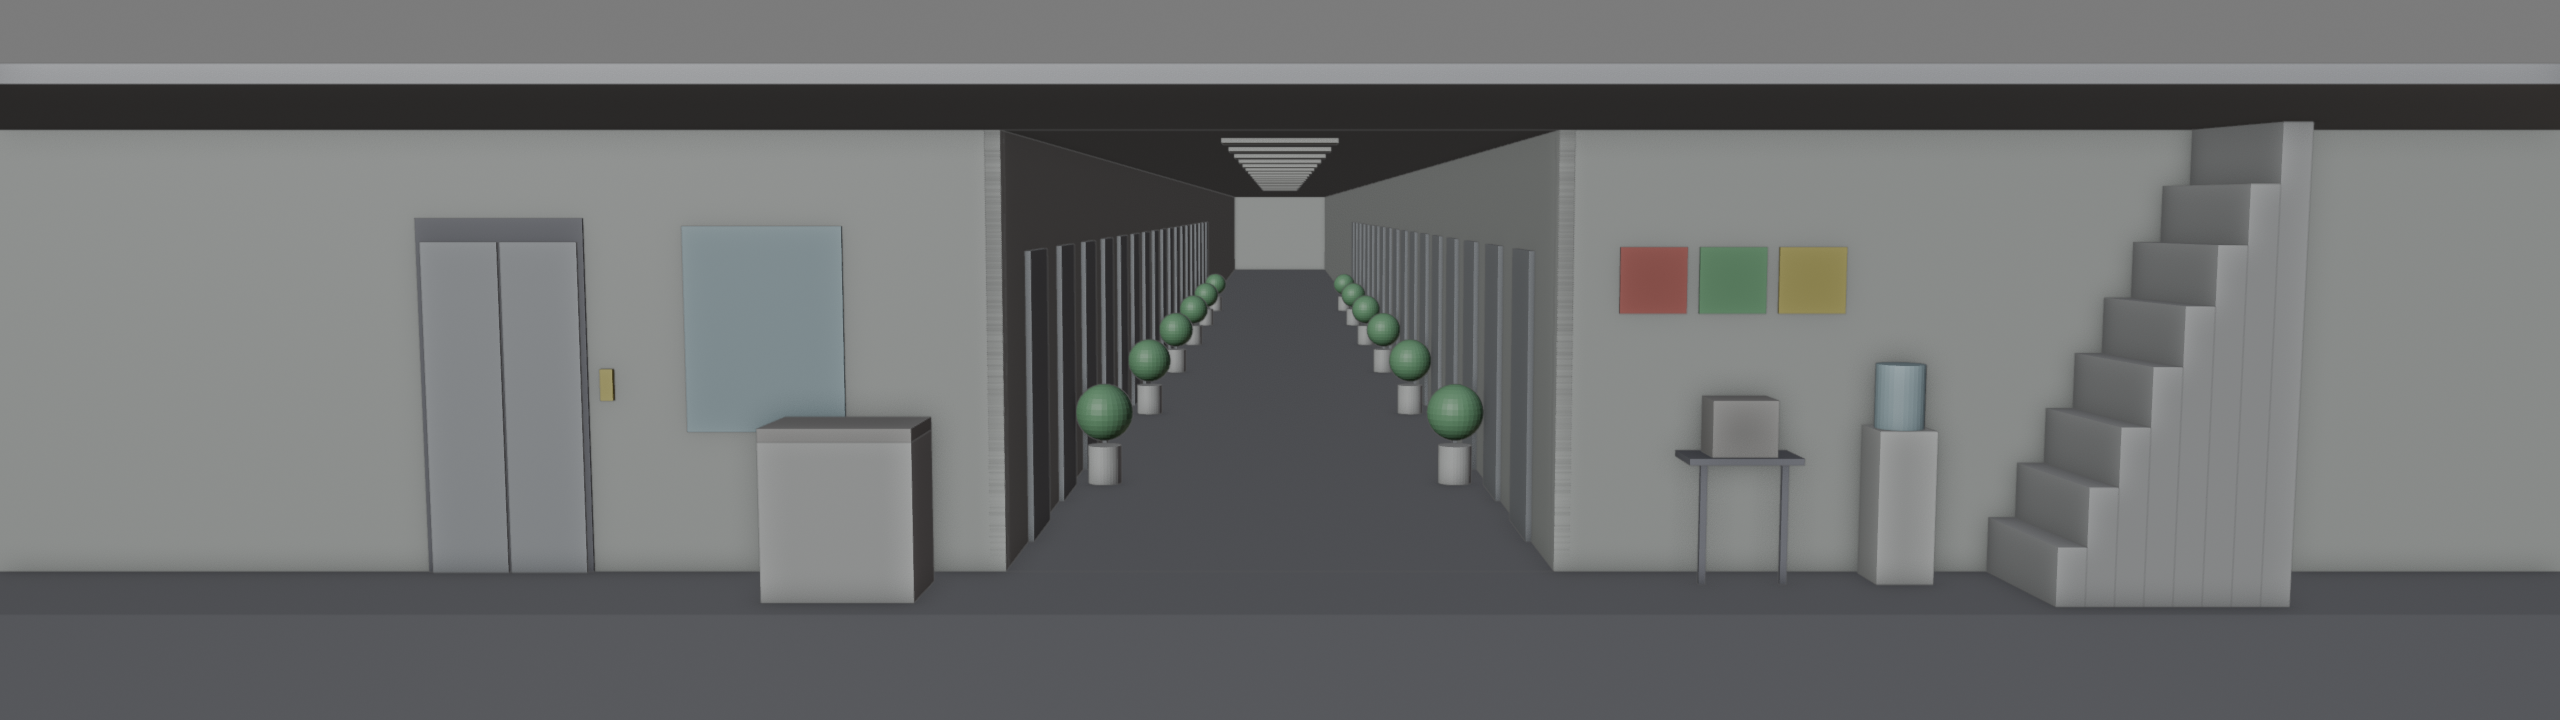
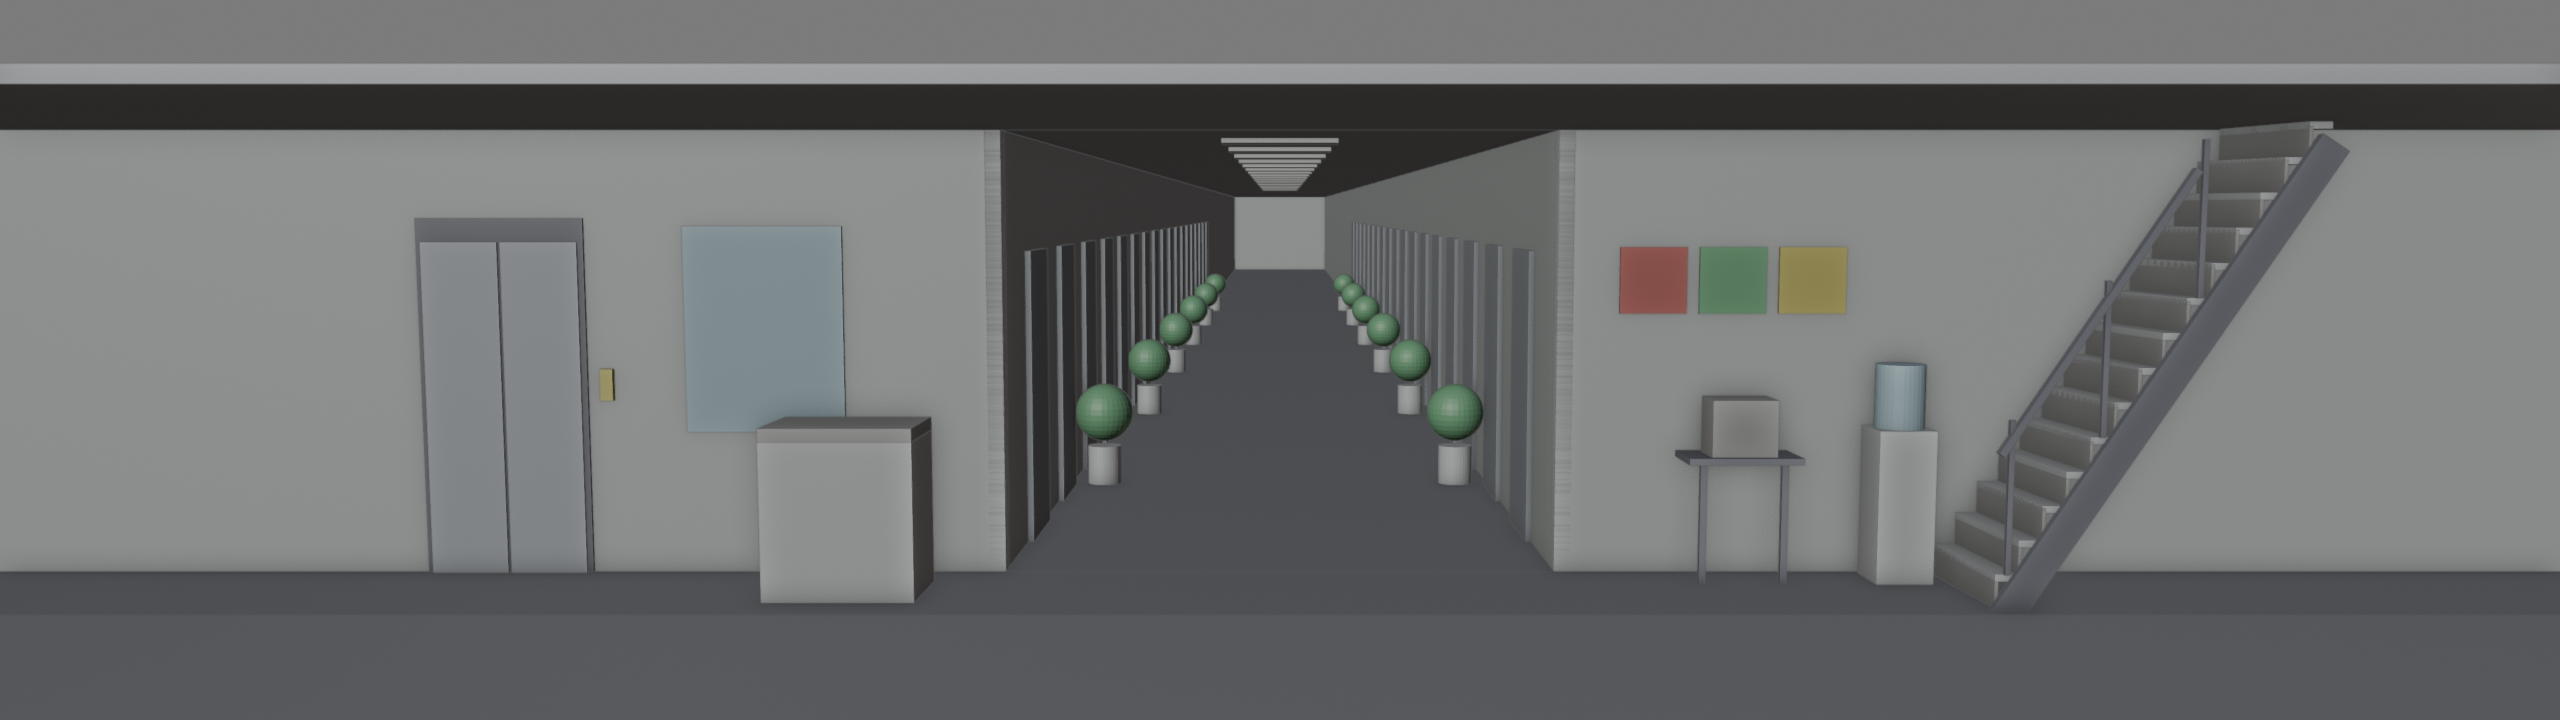
Welt 3: Büro 50 – Treppe als offene Treppe mit Handlauf, die gegen die Decke läuft (Rohbau und Prompt)

Changed region(s): [[0.75, 0.1528, 0.9375, 0.8556]]

diff --git a/tools/grafik_w3/rohbau_raeume.py b/tools/grafik_w3/rohbau_raeume.py
@@ -353,14 +353,36 @@ def buero():
     box(None, 8.85, Y0 - 0.4, 0.4, 0.3, 0.35, z=0.79, col=MITTEL)
     box("ONE water cooler (room for a cup on top)", 9.85, Y0 - 0.4, 0.35, 0.35, 0.95, col=HELL)
     zyl(None, 9.85, Y0 - 0.22, 0.15, 0.4, z=0.95, col=GLAS)
-    for i in range(8):
-        box("staircase along the wall, ending in the ceiling" if i == 7 else None,
-            10.6 + i * 0.17, Y0 - 1.0, 0.17, 1.0, 0.35 * (i + 1), col=(0.82, 0.82, 0.82, 1))
+    treppe(10.2, Y0 - 1.05, 2.8)
     notiz("walk area: front lobby", 6.0, 0.6, 0.05)
     figur("Agent Schmidt (at the far end)", 6.0, 14.0, 1.85)
     for x, y in ((5.2, 4.5), (6.8, 6.0), (5.6, 8.5), (6.5, 11.0), (4.8, 1.8), (7.4, 2.2)):
         figur("clone", x, y, 1.85)
     max_massstab()
+
+
+def treppe(x0, y, hoehe, stufen=14, auftritt=0.13, breite=0.95):
+    """Offene Treppe an der Rückwand: einzelne Stufen (Tritt und Setzstufe), Wange und Handlauf
+    vorn, nach rechts ansteigend; die oberste Stufe stößt gegen die Decke (Gag: endet in der Decke)."""
+    steig = hoehe / stufen
+    stufe = (0.85, 0.85, 0.85, 1)
+    for i in range(stufen):
+        box("staircase: open steps with railing, the top step hits the ceiling" if i == stufen - 1 else None,
+            x0 + i * auftritt, y, auftritt, breite, 0.04, z=(i + 1) * steig - 0.04, col=stufe)
+        box(None, x0 + i * auftritt - auftritt / 2 + 0.01, y, 0.02, breite, steig, z=i * steig, col=MITTEL)
+    lang = math.hypot(stufen * auftritt, hoehe)
+    winkel = math.atan2(hoehe, stufen * auftritt)
+    for dz, dicke, kuerzer in ((-0.12, 0.18, 0.0), (0.9, 0.04, 1.4)):
+        mx = x0 + stufen * auftritt / 2 - auftritt / 2 - kuerzer / 2 * math.cos(winkel)
+        mz = hoehe / 2 + dz - kuerzer / 2 * math.sin(winkel)
+        bpy.ops.mesh.primitive_cube_add(size=1, location=(X(mx), y - 0.02, mz))
+        o = bpy.context.object
+        o.scale = (lang - kuerzer, 0.05, dicke)
+        farbe = DUNKEL
+        o.rotation_euler[1] = -winkel
+        o.color = farbe
+    for i in range(0, stufen - 4, 4):
+        box(None, x0 + i * auftritt, y - 0.02, 0.03, 0.03, 0.9, z=(i + 1) * steig, col=DUNKEL)
 
 
 def testkammer_basis():

diff --git a/docs/grafik/welt-3.md b/docs/grafik/welt-3.md
@@ -77,7 +77,7 @@ Standardweg: Konzeptbild mit dem Baustein KONZEPT in Gemini, danach `tools/pixel
 | Laboreingang | Realität innen | Tür zu und offen | Panzertür, Kartenleser, Pinnwand, Wischeimer, Warnstreifen, Deckenlampe, Gang zur Straße | Underground concrete passage below the city, front view with gentle depth. Center: a heavy round steel blast door set into the back wall, closed. Right of the door: a wall-mounted card reader with a small red light. Left: a mop bucket full of clean water and a corkboard covered in pinned charts and blank result sheets; exit back up to the street at the left edge. Yellow-black warning stripes along the back of the floor, the front kept clear and wet. A single ceiling lamp, water dripping beside it. Second version, same framing: the blast door rolled aside, revealing a small room with a wall of glowing cyan data ports and one thick cable plugged in |
 | Stadtstraße | Simulation | Tag und Nacht (Strom der Kapsel aus). 1280×360 als ein Panorama in einem Bild (Seitenverhältnis 32:9) | Nachttisch mit Radiowecker (Anzeige 5:59; klingelnd 6:00), Gehweg für die Katze, Glastür des Büroturms, Haus der Orakel-Oma mit Spitzengardinen, gleiche Bäume und Häuser, freie Fahrbahn für die Autos im Takt (Effekt, keine gemalten Autos), Nachttisch als eigenes Vordergrundteil, Omas Haustür in Max-Größe, Sonne, Wolke dreimal | ONE single continuous panoramic image, extra wide 32:9 (1280x360), seen through one fixed camera from the front with gentle depth: a single uninterrupted city street that runs from the left edge to the right edge without any seam, split, border, divider or second panel. The horizon line, the sidewalk, the curb and the road stay at exactly the same height across the whole width. A suspiciously perfect city street on a sunny day. From left to right: at the far left, close to the viewer at the front edge of the sidewalk, a small wooden bedside table standing alone with a 1980s clock radio on it, red digits on its display; behind it a narrow, too-clean alley entrance. Behind the front sidewalk a clean empty asphalt road runs across the whole width, no cars on it and no cars parked anywhere. Across the road a second narrow sidewalk, then identical round trees and identical street lamps in a perfect evenly spaced row, then identical white houses with small front lawns; one house near the middle has lace curtains, a large front door and a small blank sign beside it, its door clearly big enough for an adult. At the far right, on the near side of the road, the ground floor of a tall glass office tower that is cut off by the top edge, with a closed glass entrance door and a small grey intercom plate beside it. One long clean sidewalk across the whole lower part of the image, no cracks, no gum, wide enough to walk on. Perfect blue sky with a small round sun and the same small cloud appearing exactly three times at even distances. Second version: the same street at night, dark blue sky, street lamps on, windows dark |
 | Küche der Orakel-Oma | Simulation innen | Sparschwein auf dem Regal; Sparschwein weg, Scherben am Boden | Ofen, Sparschwein auf dem Regal, Kochbuch, Radio, Gläser, Eieruhr, Kuckucksuhr, Gabel, Teller und Teekanne, Kehrblech mit Besen, Haustür | A homely retro kitchen seen from a few steps back, front view with gentle depth, furniture in normal adult size. Left: an old cream enamel oven with a window, a tray of round golden cookies inside, warm glow; a dustpan and broom leaning beside it, the broom turned toward the room. Center: a wooden kitchen table at the hip height of an adult, a chair beside it, on the table an empty plate, a teapot, a single straight silver fork and a thick open appliance manual showing a drawing of a stand mixer. Right: a high wall shelf with a blue ceramic piggy bank, a small radio and three jars with blank labels; below it a small side shelf with a wind-up kitchen timer shaped like a white hen, next to the front door at the right edge. Back wall: floral wallpaper, a window with lace curtains, a cuckoo clock. Warm light. Second version, same framing: the shelf without the piggy bank, blue shards on the floor below it |
-| Büroturm, 50. Stock | Simulation innen | 1280×360 als ein Panorama in einem Bild (Seitenverhältnis 32:9; Entscheidung 20.11.: breiter, damit Türreihe und Klon-Menge Platz haben) | Farbcode an der Wand, Terminal, Fenster, gleiche Türen, Bürokopierer, Wasserspender mit Platz für die Kaffeetasse (Sprite aus dem Gegenstands-Sammelbild, dort legt Schmidt auch die Sonnenbrille ab), Treppe in die Decke, Aufzugstür | Wide panoramic 1280x360 scene in one continuous image, front view with gentle depth, one central vanishing point. The 50th floor of an office tower: a wide plain office lobby across the front, and in the middle of its back wall a long straight corridor that runs away into the distance and never seems to end, its two side walls lined with identical grey office doors in perfect rhythm, identical small potted plants between some of them, a row of identical ceiling lights shrinking toward the far end. Left part of the lobby back wall: a metal elevator with two sliding doors and a small call button (the exit), then a window that shows only another identical corridor outside, a grey office photocopier with an output tray standing in front of the window. Right part of the lobby back wall: three separate square colour fields side by side at eye height, each with exactly one large black symbol inside it: a circle on the red field, a triangle on the green field, a square on the yellow field; below them a small side table with an old computer terminal with a green screen; next to it ONE single water cooler with a big bubble bottle; at the right edge a plain staircase running up along the wall and ending in the ceiling. Lobby floor clear and wide, the corridor floor clear for a crowd of identical clones. No columns, no second water cooler. Cold flat fluorescent light |
+| Büroturm, 50. Stock | Simulation innen | 1280×360 als ein Panorama in einem Bild (Seitenverhältnis 32:9; Entscheidung 20.11.: breiter, damit Türreihe und Klon-Menge Platz haben) | Farbcode an der Wand, Terminal, Fenster, gleiche Türen, Bürokopierer, Wasserspender mit Platz für die Kaffeetasse (Sprite aus dem Gegenstands-Sammelbild, dort legt Schmidt auch die Sonnenbrille ab), Treppe in die Decke, Aufzugstür | Wide panoramic 1280x360 scene in one continuous image, front view with gentle depth, one central vanishing point. The 50th floor of an office tower: a wide plain office lobby across the front, and in the middle of its back wall a long straight corridor that runs away into the distance and never seems to end, its two side walls lined with identical grey office doors in perfect rhythm, identical small potted plants between some of them, a row of identical ceiling lights shrinking toward the far end. Left part of the lobby back wall: a metal elevator with two sliding doors and a small call button (the exit), then a window that shows only another identical corridor outside, a grey office photocopier with an output tray standing in front of the window. Right part of the lobby back wall: three separate square colour fields side by side at eye height, each with exactly one large black symbol inside it: a circle on the red field, a triangle on the green field, a square on the yellow field; below them a small side table with an old computer terminal with a green screen; next to it ONE single water cooler with a big bubble bottle; at the right edge a narrow open staircase with single steps and a thin handrail, climbing diagonally along the wall, its top step running straight into the ceiling with no opening. Lobby floor clear and wide, the corridor floor clear for a crowd of identical clones. No columns, no second water cooler. Cold flat fluorescent light |
 | Testkammer 1 | Labor | Ausgangstür zu und offen (das Portalgerät hängt als eigenes Sprite aus dem Labor-Sammelbild in der Halterung) | Bodenschalter, Ausgangstür, Portalgerät-Halterung, Lautsprecher, Pappkuchen | A bright white test chamber built from identical square wall panels, front view with gentle depth. Left: the entrance and an empty white wall mount for a handheld device. Center: a large round red floor button set flush into the floor. Right: a closed sliding exit door. A small round speaker in the ceiling. Right corner: a cardboard cake with a painted candle. Second version, same framing: the exit door slid open |
 | Testkammer 2 | Labor | Laser tödlich (rot) und harmlos (blassrosa); das Gummihuhn steht als eigenes Sprite aus dem Labor-Sammelbild auf dem Sockel | Lasersperre, Gummihuhn-Sockel, Kritzelei mit Regel 3, Ausgangstür | The same white test chamber, same framing and panels. Right: the closed exit door, and directly in front of it two short emitter posts with three horizontal red laser beams between them, blocking the door. Left: a small empty white pedestal. Center, low on one wall panel near the floor: hasty black marker scribbles, unreadable, with one small neat block of print beside them. A large round loudspeaker on the wall. Second version: the laser beam pale pink and wobbly |
 | Testkammer 3 | Labor | Tür zu und offen | Verschlossene Tür mit Spalt für Bernd, Lautsprecher, Platz für das Huhn | The same white test chamber, same framing. Right: a large exit door with a big padlock symbol; directly in front of the door, touching it, a narrow slot in the floor exactly one small cube wide, so a cube standing in it blocks the door. Next to the door: a large round loudspeaker with a perforated grille, the size of a window. Left: entrance and an empty spot on the floor for the rubber chicken. Second version: the exit door wide open |

diff --git a/docs/grafik/fertige-prompts/welt-3.md b/docs/grafik/fertige-prompts/welt-3.md
@@ -346,7 +346,7 @@ NEGATIVE: no new objects, no changed camera or framing, no style change, no text
 
 ```text
 STYLE: Concept art for a 2D point-and-click adventure game in the style of classic 1990s adventure games, front view of the room with gentle one-point perspective, camera at the eye level of a standing person looking straight at the back wall, back wall parallel to the picture plane, vanishing point in the center at about 40 percent of the image height, side walls at most as narrow angled strips at the image edges, open walkable floor with gentle depth across the lower third to half of the image kept free of objects except at the left and right edges, wide shot from further back so the room feels spacious: a standing adult at the front edge would be about 52 percent of the image height, so doors and tall cupboards reach only about 50 percent of the image height, chairs about 25 percent and tables about 22 percent, no top-down, bird's-eye or strong three-quarter view, no fisheye, every object drawn exactly as described and nothing added, no faces or robot features on objects, small loose objects that can be picked up left out, book spines, calendars, posters and labels without any letters or numbers, light from the upper left with soft shadows to the lower right, humorous and whimsical, warm hand-painted look, 16:9, no text, no letters, no logos.
-SCENE: Wide panoramic 1280x360 scene in one continuous image, front view with gentle depth, one central vanishing point. The 50th floor of an office tower: a wide plain office lobby across the front, and in the middle of its back wall a long straight corridor that runs away into the distance and never seems to end, its two side walls lined with identical grey office doors in perfect rhythm, identical small potted plants between some of them, a row of identical ceiling lights shrinking toward the far end. Left part of the lobby back wall: a metal elevator with two sliding doors and a small call button (the exit), then a window that shows only another identical corridor outside, a grey office photocopier with an output tray standing in front of the window. Right part of the lobby back wall: three separate square colour fields side by side at eye height, each with exactly one large black symbol inside it: a circle on the red field, a triangle on the green field, a square on the yellow field; below them a small side table with an old computer terminal with a green screen; next to it ONE single water cooler with a big bubble bottle; at the right edge a plain staircase running up along the wall and ending in the ceiling. Lobby floor clear and wide, the corridor floor clear for a crowd of identical clones. No columns, no second water cooler. Cold flat fluorescent light.
+SCENE: Wide panoramic 1280x360 scene in one continuous image, front view with gentle depth, one central vanishing point. The 50th floor of an office tower: a wide plain office lobby across the front, and in the middle of its back wall a long straight corridor that runs away into the distance and never seems to end, its two side walls lined with identical grey office doors in perfect rhythm, identical small potted plants between some of them, a row of identical ceiling lights shrinking toward the far end. Left part of the lobby back wall: a metal elevator with two sliding doors and a small call button (the exit), then a window that shows only another identical corridor outside, a grey office photocopier with an output tray standing in front of the window. Right part of the lobby back wall: three separate square colour fields side by side at eye height, each with exactly one large black symbol inside it: a circle on the red field, a triangle on the green field, a square on the yellow field; below them a small side table with an old computer terminal with a green screen; next to it ONE single water cooler with a big bubble bottle; at the right edge a narrow open staircase with single steps and a thin handrail, climbing diagonally along the wall, its top step running straight into the ceiling with no opening. Lobby floor clear and wide, the corridor floor clear for a crowd of identical clones. No columns, no second water cooler. Cold flat fluorescent light.
 PALETTE: overly clean interior palette with a faint green tint, even shadowless-looking light, no dirt anywhere, slightly too symmetrical, no sky. Color anchors, approximate: clean grey #c0cbdc, white #ffffff, faint green tint #63c74d, pale wood #e4a672.
 LAYOUT: Use the attached grey blockout only for layout, perspective, horizon height and the size of every object relative to the 1.75 m person; paint in the style of the reference image, do not copy the grey colours, do not paint any people or animals.
 NEGATIVE: no characters, people or animals in the walkable area, no text, letters, numbers or logos, no faces or robot features on objects, no loose objects that can be picked up, no objects that are not described, no top-down, bird's-eye or fisheye view, no tilted floor, no photorealism, no 3D render, no blur, no watermark
